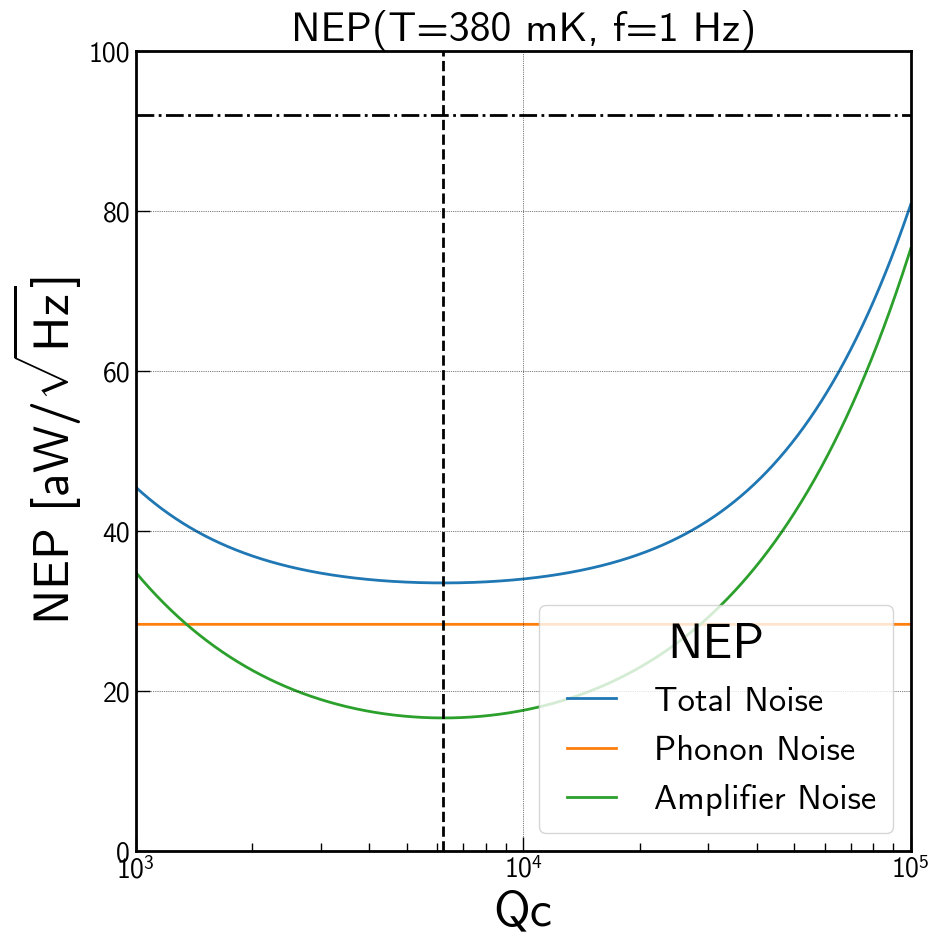
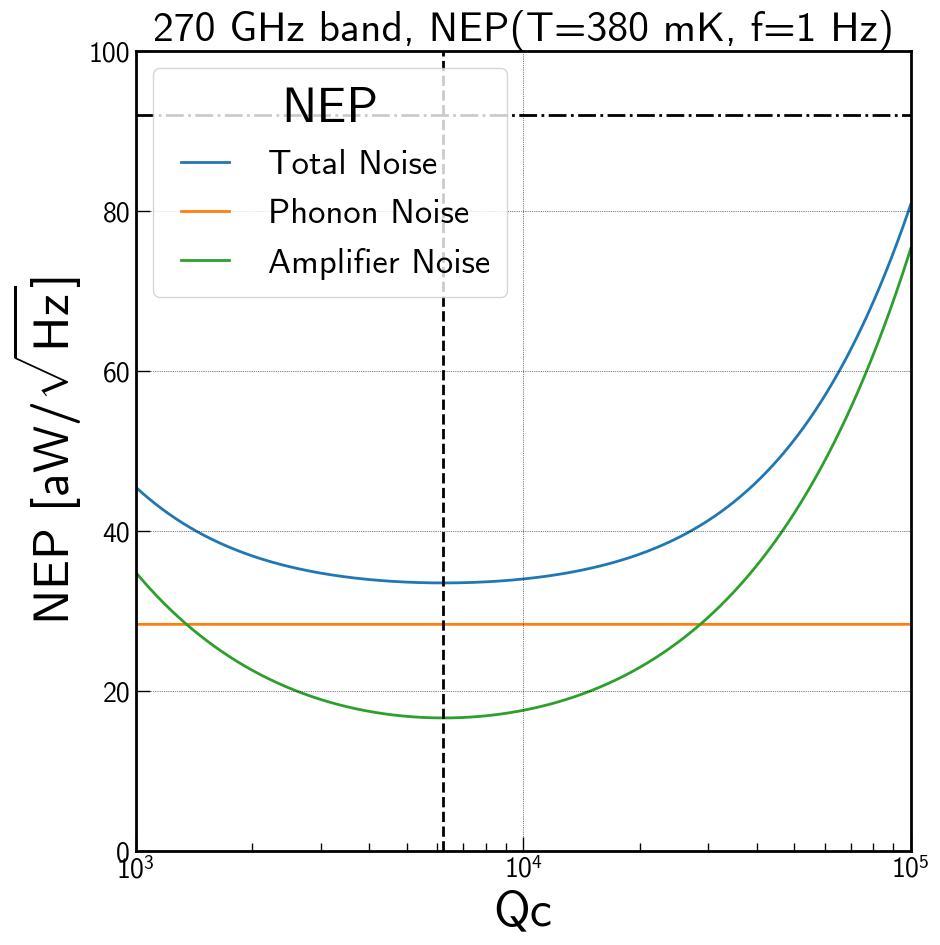
making plots switching between the bands better

diff --git a/mkidsens/explore_resonator_spacing.py b/mkidsens/explore_resonator_spacing.py
@@ -51,9 +51,13 @@ V_sc = l * A
 P_opt = 14.00*pW #((Vdc/Rb)**2 * Rh).to(u.pW)
 
 n = 2.000 # conductivity index = beta + 1
-K_leg = 122.9 * pW/Kelvin**(n+1)  #150 GHz case
-#K_leg = 275.2 * pW/Kelvin**(n+1)   #220 GHz case
-#K_leg = 352.5 * pW/Kelvin**(n+1)   #270 GHz case
+band = 270
+if band == 150:
+    K_leg = 122.9 * pW/Kelvin**(n+1)  #150 GHz case
+elif band == 220:
+    K_leg = 275.2 * pW/Kelvin**(n+1)   #220 GHz case
+elif band == 270:
+    K_leg = 352.5 * pW/Kelvin**(n+1)   #270 GHz case
 
 T_c = 1.278 * Kelvin
 Tstart = 0.2
@@ -75,7 +79,7 @@ N_0 = (3 * (gamma * (density/A_r)))/(2*pi**2 * k_B**2)
 #plt.figure(213, figsize=(10,10))
 Delta = 1.764 * k_B * T_c
 
-varyQc = False
+varyQc = True
 varyfreq = False
 varyTemp = False
 analyzeTempandNumber = True
@@ -141,7 +145,12 @@ def get_loading(T, nu0, bw):
 
 
 if varyQc:
-    f_r = 324*MHz
+    if band == 150:
+        f_r = 324*MHz
+    elif band == 220:
+        f_r = 475*MHz
+    elif band == 270:
+        f_r = 583*MHz
     f_g = f_r
     omega_r = 2*pi*f_r
     Qc = np.logspace(3,5,2000)
@@ -198,9 +207,12 @@ if varyQc:
     #print (Stls)
     NEP_tls = (Stls**0.5*f_r/S)
     ones = np.ones_like(Qc)
-    N_photon = 43#aW/rtHz
-    #N_photon = 82#aW/rtHz
-    #N_photon = 92#aW/rtHz
+    if band == 150:
+        N_photon = 43#aW/rtHz
+    elif band == 220:
+        N_photon = 82#aW/rtHz
+    elif band == 270:
+        N_photon = 92#aW/rtHz
     NEP_total = np.sqrt(NEP_ph**2 + NEP_amp**2 + NEP_gr**2 + NEP_tls**2)
 
     fig, ax = plt.subplots(figsize=(10,10))
@@ -210,13 +222,13 @@ if varyQc:
     ax.axvline(Q_i, color='k', ls='--', lw=2)
     ax.axhline(N_photon, color='k', ls='-.', lw=2)
     ax.grid()
-    ax.legend(loc='lower right', title='NEP')
+    ax.legend(loc='upper left', title='NEP')
     ax.set_xlim(left=Qc[0], right=Qc[-1])
     ax.set_ylim(bottom=0, top=100)
     ax.set_xlabel('Qc')
-    ax.set_title('NEP(T=%d mK, f=1 Hz)'%(T_op*1e3))
+    ax.set_title('%d GHz band, NEP(T=%d mK, f=1 Hz)'%(band, T_op*1e3))
     ax.set_ylabel('NEP [aW/$\sqrt{\mathrm{Hz}}$]')
-    plt.savefig('Qc_dependence_of_NEP_150GHzband.png')
+    plt.savefig('Qc_dependence_of_NEP_%dGHzband.png'%(band))
     plt.show()
 elif varyfreq:
     ximax = 0.009
